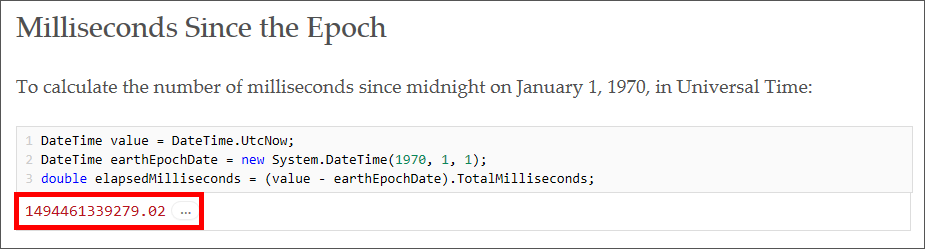
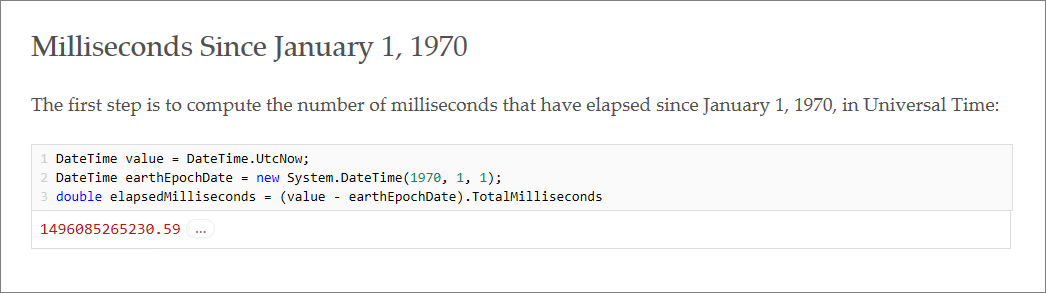
More edits to Lab 5

Changed region(s): [[0.0, 0.0, 1.0, 1.0], [0.0, 0.3092, 0.9686, 0.3936], [0.0, 0.0562, 0.4541, 0.2249]]

diff --git a/Module 5 (Draft)/Operation Remote Resupply, Part 5.md b/Module 5 (Draft)/Operation Remote Resupply, Part 5.md
@@ -56,7 +56,7 @@ Estimated time to complete this lab: **45** minutes.
 <a name="Exercise1"></a>
 ## Exercise 1: Create a Xamarin Workbook for Android ##
 
-Xamarin Workbooks are essentially "markdown" files with a ".workbook" extension, making them both portable and easy to manage. A workbook can be created for Android, iOS, Windows console, and desktop (WPF) apps, with full support for package management, including platform-specific NuGet packages. Rich code block support, using the standard markup "triple-backtick" pattern, is also used, making it easy to convert a standard markdown file to a Xamarin Workbook for a more interactive learning experience.
+Xamarin Workbooks are essentially markdown files with a ".workbook" extension, making them both portable and easy to manage. Workbooks can be created for Android, iOS, Windows console, and desktop (WPF) apps, with full support for NuGet packages. Rich code-block support, using the standard markup "triple-backtick" pattern, is also used, making it easy to convert a standard markdown file into a Xamarin Workbook for a more interactive learning experience.
 
 In this exercise, you will create a Xamarin Workbook targeting Android devices and learn the basics of working with cells. 
 
@@ -98,7 +98,7 @@ In this exercise, you will create a Xamarin Workbook targeting Android devices a
 
     _Results of executing a cell_
 
-1. The three buttons in the lower-right corner of each cell allow you to add an executable cell, add a documentation cell, and delete the current cell, in that order. Click the third button in the cell that was added when you executed the code in the previous cell to delete it.
+1. The three buttons in the lower-right corner of each cell allow you to add an executable cell, add a documentation cell, and delete the current cell, in that order. Click the third button in the cell that was added when you executed the code in the previous cell to delete it, and confirm the deletion when prompted to do so.
 
 	![Deleting the newly added cell](Images/ex1-delete-executable-cell.png)
 
@@ -122,42 +122,177 @@ In this exercise, you will create a Xamarin Workbook targeting Android devices a
 
     _Adding a documentation cell_
 
-Now that you're familiar with basic workbook concepts, including adding, deleting, and executing cells, let's build something more impactful.
+Now that you're familiar with basic workbook concepts, including adding, deleting, and executing cells, let's build something that's relevant to Operation Remote Resupply.
 
 <a name="Exercise2"></a>
 ## Exercise 2: Build an interactive workbook ##
 
-Xamarin Workbooks are typically comprised of both document cells and executable cells, with markdown-style formatting applied for readability and structure. In this exercise you will be using the skills and familiarity gained in the previous exercise to create an interactive document providing the steps, descriptions, and calculations required to convert Earth time to Mars time.
+In this exercise, you will create a Xamarin Workbook that describes how to convert Earth time to Mars time, and that includes code to perform the conversion.
 
-1. Add a documentation cell to the workbook. Then delete the executable cell above it.
-
-1. Create a heading for your workbook by entering the following text in the documentation cell:
+1. Add a documentation cell to the workbook and enter the following text:
 
 	```
 	What time is it on Mars?
 	```
 
-1. Format the text in the cell by selecting **Format** > **Heading** > **Level 1** from the overhead menu.
+1. Format the text in the cell by selecting **Format** > **Heading** > **Level 1** from the overhead menu, and confirm that it takes on the format shown below.
 
-	![Formatting a documentation cell](Images/xw-format-heading.png)
+	![The workbook heading](Images/xw-completed-format.png)
 
-    _Formatting a documentation cell_
-
-1. Confirm that the heading takes on the format shown below.
-
-	![The formatted heading](Images/xw-completed-format.png)
-
-    _The formatted heading_
+    _The workbook heading_
  
 1. Add another documentation cell to the workbook. Then paste the following text into the cell to serve as an introduction to the workbook: 
 
 	```
-	Have you ever considered what time it is on Mars? It's not an abstract question when you have settlers on Mars and need to communicate with them. tk. 
-
-	To make sure your calculations can use both C# and Xamarin Forms, you need to include a few lines of code like this:
+	Have you ever considered what time it is on Mars? It's not an abstract question when you have settlers on Mars and need to communicate with them. Earth time can be converted to Mars time in a few simple steps.  
 	```
 
-	At this point you're ready to start adding some code, and since you will be working with a Xamarin Forms for the remainder of this exercise, you need to add the Xamarin.Forms package to your workbook:
+1. Add a documentation cell to the workbook and insert the text below. Then highlight "Milliseconds Since January 1, 1970" and use the **Format** > **Heading** > **Level 2** command to format the text as a subheading.
+
+	```
+	Milliseconds Since January 1, 1970
+
+	The first step is to compute the number of milliseconds that have elapsed since January 1, 1970, in Universal Time:
+	```
+
+1. Insert a new executable cell and enter the code below.
+
+	```C#
+	DateTime value = DateTime.UtcNow;
+	DateTime earthEpochDate = new System.DateTime(1970, 1, 1);
+	double elapsedMilliseconds = (value - earthEpochDate).TotalMilliseconds;
+	```
+
+1. Click the **Run** button or press **Ctrl+Enter** to execute the code and display the number of milliseconds elapsed since January 1, 1970: 
+
+	![Computing the number of milliseconds elapsed since January 1, 1970](Images/xw-since-epoch-code.png)
+
+    _Computing the number of milliseconds elapsed since January 1, 1970_
+ 
+1. Delete the executable cell that was added when you ran the code. Then add a documentation cell, insert the following text, and format the first line as a level-2 subheading:
+
+	```
+	Julian Date (Universal Time)
+
+	The next step is to convert milliseconds into days and add the number of days between noon on January 1, 4713 B.C. and midnight on January 1, 1970 (2,440,587.5 days) to yield a Julian date: 
+	```
+
+1. Insert a new executable cell and enter the statement below. Then run it to compute a Julian date.
+
+	```C#
+	double epochJulianDate = 2440587.5 + (elapsedMilliseconds / (8.64 * Math.Pow(10, 7)));
+	```
+
+	![Computing a Julian date](Images/xw-julian-date-universal.png)
+
+    _Computing a Julian date_
+
+1. Delete the executable cell that was added when you ran the code, and add a new documentation cell. Insert the following text, and then format the first line as a level-2 subheading:
+
+	```
+	Julian Date (Terrestrial Time)
+
+	Now convert the Julian date in Universal Time to a Julian date in Terrestrial Time by adding the number of leap seconds since January 1, 2017:
+	```
+
+1. Insert a new executable cell and enter the statement below. The run it to convert the Julian date to Terrestrial Time:
+
+	```C#
+	double terrestrialJulianDate = epochJulianDate + (37 + 32.184) / 86400;
+	```
+
+	![Converting a Julian date to Terrestrial Time](Images/xw-julian-date-terrestrial.png)
+
+    _Converting a Julian date to Terrestrial Time_
+
+1. Delete the executable cell that was added when you ran the code, and add a new documentation cell. Insert the following text, and then format the first line as a level-2 subheading:
+
+	```
+	Julian Date Relative to January 1, 2000
+
+	Subtract the number of days between January 1, 1970 and January 1, 2000 to convert the terrestrial Julian date computed in the previous step into one that is relative to January 1, 2000:
+	```
+
+1. Insert a new executable cell and enter the statement below. Then run it to convert the Julian date into one that is relative to January 1, 2000:
+
+	```C#
+	double martianEpochDifference = terrestrialJulianDate - 2451545.0;
+	```
+
+	![Rebasing the Julian date](Images/xw-julian-date-j2000.png)
+
+    _Rebasing the Julian date_
+
+1. Delete the executable cell that was added when you ran the code, and add a new documentation cell. Insert the following text, and then format the first line as a level-2 subheading:
+
+	```
+	Mars Sol Date
+
+	The equivalent of the Julian date for Mars is the Mars sol date. At midnight on January 6, 2000 on earth, it was midnight at the Martian prime meridian, so our starting point for Mars sol date is ΔJ2000 - 4.5. The length of a Martian day and Earth day differ by a ratio of 1.027491252, so we divide by that. By convention, to keep the Martial sol date positive going back to midday on December 29, 1873, we add 44,796. A slight adjustment of 0.00096 is required since the midnights aren't perfectly aligned:
+	```
+
+1. Insert a new executable cell and enter the statement below. Then run it to display the Martian sol date:
+
+	```C#
+	double martianSolDate = (((martianEpochDifference - 4.5) / 1.027491252) + 44796.0 - 0.00096);
+	```
+
+	![Computing the Martial sol date](Images/xw-sol-date.png)
+
+    _Computing the Martial sol date_
+
+1. Delete the executable cell that was added when you ran the code, and add a new documentation cell. Insert the following text, and then format the first line as a level-2 subheading:
+
+	```
+	Mars Coordinated Time
+
+	Mars Coordinated Time (MTC) is like UTC, but for Mars. Because it is just a mean time, you can  calculate it based on the Mars Sol Date like this:
+	```
+
+1. Insert a new executable cell and enter the following statement. Then run it to display the current time in Mars Coordinated Time (MTC):
+
+	```C#
+	var mct = System.TimeSpan.FromHours((martianSolDate % 1) * 24);
+	mct.ToString("hh\\:mm\\:ss");
+	```
+
+	![Computing Mars Coordinated Time](Images/xw-mtc.png)
+
+    _Computing Mars Coordinated Time_
+ 
+1. One of the cool things about Xamarin Workbooks is that you can do almost anything you would normally do in C#, including adding methods and extension methods. To demonstrate, add the following statements to the executable cell that was added when you ran the last one:
+
+	```C#
+	static double ToMartianSolDate(this DateTime value)
+	{
+	    DateTime earthEpochDate = new System.DateTime(1970, 1, 1);
+	    double elapsedMilliseconds = (value - earthEpochDate).TotalMilliseconds;
+	    double epochJulianDate = 2440587.5 + (elapsedMilliseconds / (8.64 * Math.Pow(10, 7)));
+	    double terrestrialJulianDate = epochJulianDate + (37 + 32.184) / 86400;
+	    double martianEpochDifference = terrestrialJulianDate - 2451545.0;
+	    double martianSolDate = (((martianEpochDifference - 4.5) / 1.027491252) + 44796.0 - 0.00096);
+	
+	    return martianSolDate;
+	}
+	
+	static TimeSpan ToMartianTime(this DateTime value)
+	{   
+	    return System.TimeSpan.FromHours((value.ToMartianSolDate() % 1) * 24);
+	}
+	```
+
+	These extension methods will come in handy when you add code to interact with the Android emulator in the next exercise.
+
+Xamarin Workbooks like this one are great for creating interactive documents to teach concepts and let users try out code that implements those concepts. As yet, however, you haven't used the Workbooks app that appeared in the Android emulator when you launched Xamarin Workbooks. Let's modify the app to allow users to convert earth time to Martian time. 
+
+<a name="Exercise3"></a>
+## Exercise 3: Inspect code using the Xamarin UI Inspector ##
+
+Xamarin Workbooks are not only interactive in the editor, but can also communicate with external processes, like a console window, WPF app, and iOS and Android emulator. Since an emulator gets started when a Xamarin Workbook is created, you only need to write a few lines of code to interact with it. Interaction with the emulator can come in various forms, such as creating UI controls to display on a page, as well as inspecting and adjusting control properties in the Xamarin UI Inspector.
+
+In this exercise you will be adding documentation and code to your workbook to display an Earth to Mars time converter in the emulator, as well as inspecting and adjusting properties using the Xamarin UI Inspector built into Xamarin Workbooks.
+
+---
 
 1. Add an executable cell to the workbook. Then select **File** > **Add Package...** from the overhead menu and type "Xamarin.Forms" into the search box. Select the latest **Xamarin.Forms** package, and then click **Add Package** to add the package to the workbook.
 
@@ -179,175 +314,10 @@ Xamarin Workbooks are typically comprised of both document cells and executable 
 	using Xamarin.Forms;
 	```
 
-1. Add a documentation cell to the workbook and insert the following text:
-
-	```
-	With that in place, you can start writing some code to calculate Martian Time, starting with the number of milliseconds since the epoch.
-
-	Milliseconds Since the Epoch
-
-	To calculate the number of milliseconds since midnight on January 1, 1970, in Universal Time:
-	```
-
-1. Highlight "Milliseconds Since the Epoch" in the documentation cell. Then use the **Format** > **Heading** > **Level 2** command to format the text as a subheading.
-
-1. Insert a new executable cell and enter the following code. Then click the **Run** button or press **Ctrl+Enter** to execute it.
-
-	```C#
-	DateTime value = DateTime.UtcNow;
-	DateTime earthEpochDate = new System.DateTime(1970, 1, 1);
-	double elapsedMilliseconds = (value - earthEpochDate).TotalMilliseconds;
-	```
-
-1. Confirm that the result shows the number of milliseconds elapsed since January 1, 1970: 
-
-	![Milliseconds elapsed since the epoch](Images/xw-since-epoch-code.png)
-
-    _Milliseconds elapsed since the epoch_
- 
-1. Delete the executable cell that was added when you ran the code. Then add a documentation cell and insert the follow text:
-
-	```
-	Julian Date (UT)
-
-	Next you need to get the number of days (rather than milliseconds) since a much older epoch than Unix time.
-
-	To make this simple, and convert from the Gregorian date to the Julian date, by dividing milliseconds by 86,400,000 to get the number of days since the Unix epoch then you add that number to 2,440,587.5, which would be the exact Julian Date as of the Epoch.
-	```
-
-1. Highlight "Julian Date (UT)" and format it as a level-2 subheading.
-
-1. Insert a new executable cell and enter the following statement. Then run it to display the number of days that have elapsed since noon on January 1, 4713 B.C.
-
-	```C#
-	double epochJulianDate = 2440587.5 + (elapsedMilliseconds / (8.64 * Math.Pow(10, 7)));
-	```
-
-1. Delete the executable cell that was added when you ran the code. Then add a new documentation cell. Insert the following text, and then format "Julian Date" as a level-2 subheading:
-
-	```
-	Julian Date
-
-	Now that you have the Julian Date, you actually need the Terrestrial Time (TT) Julian Date rather than the UTC-based one, meaning you basically just add the leap seconds which, since January 1, 2017, are 37 + 32.184.
-	```
-
-1. Insert a new executable cell and enter the following statement. Then run it to display the terrestrial Julian date:
-
-	```C#
-	double terrestrialJulianDate = epochJulianDate + (37 + 32.184) / 86400;
-	```
-
-1. Delete the executable cell that was added when you ran the code. Then add a new documentation cell. Insert the following text, and then format "Days Since J2000 Epoch" as a level-2 subheading:
-
-	```
-	Days Since J2000 Epoch
-
-	This is the number we're going to use as the input to many of our Mars calculations. It's the number of (fractional) days since midnight on January 1, 1970 in Terrestrial Time. We know what JDₜₜ was at the J2000 epoch (2,451,545.0) so it's a piece of cake to convert.
-	```
-
-1. Insert a new executable cell and enter the following statement. Then run it to display the number of days since the J2000 epoch:
-
-	```C#
-	double martianEpochDifference = terrestrialJulianDate - 2451545.0;
-	```
-
-	![Number of days in the J2000 epoch](Images/xw-days-since.png)
-
-    _Number of days in the J2000 epoch_
- 
-1. Delete the executable cell that was added when you ran the code. Then add a new documentation cell. Insert the following text, and then format "Mars Sol Date" as a level-2 subheading:
-
-	```
-	Mars Sol Date
-
-	The equivalent of the Julian Date for Mars is the Mars Sol Date. At midnight on the 6th January 2000 (Δt J2000 = 4.5) it was midnight at the Martian prime meridian, so our starting point for Mars Sol Date is ΔJ2000 - 4.5.
-
-	The length of a Martian day and Earth (Julian) day differ by a ratio of 1.027491252 so we divide by that. By  convention, to keep the MSD positive going back to midday December 29th 1873, we add 44,796.
-
-	There is a slight adjustment as the midnights weren't perfectly aligned, so the NASA Mars24 site gives us an adjustment of - 0.00096.
-	```
-
-1. Insert a new executable cell and enter the following statement. Then run it to display the Martian solar date:
-
-	```C#
-	double martianSolDate = (((martianEpochDifference - 4.5) / 1.027491252) + 44796.0 - 0.00096);
-	```
-
-1. Delete the executable cell that was added when you ran the code. Then add a new documentation cell. Insert the following text, and then format "Coordinated Mars Time" as a level-2 subheading:
-
-	```
-	Coordinated Mars Time
-
-	Coordinated Mars Time (or MTC) is like UTC but for Mars. Because it is just a mean time, you can  calculated it based on the Mars Sol Date like this:
-
-	There you have it! Some quick calculations to convert Earth Time to Martian Time! Now you can easily add Xamarin Form controls to a page to display these calculations:
-	```
-
-1. Insert a new executable cell and enter the following statement. Then run it to display the current time in Mars Coordinated Time (MTC):
-
-	```C#
-	var mct = System.TimeSpan.FromHours((martianSolDate % 1) * 24);
-	```
-
-	![Executing code to view "Mars Coordinated Time"](Images/xw-execute-mct.png)
-
-    _Executing code to view "Mars Coordinated Time"_
- 
-	That's a lot of "rocket science, but you're finally getting close. In fact Mars Coordinated Time is actually human-readable now, and looks pretty much like time on Earth. To get you the rest of the way you can add a step to make it perfect for Earth people:
-
-1. Delete the executable cell that was added when you ran the code. Then add a new documentation cell and insert the following text:
-
-	```
-	You can even clean it up a bit to make it more readable for people used to seeing Earth Time:
-	```
-
-1. Insert a new executable cell and enter the following statement. Then run it to display the Mars Coordinated Time in an "Earth-friendly" format:
-
-	```C#
-	mct.ToString("hh\\:mm\\:ss");
-	```
-
-1. Delete the executable cell that was added when you ran the code. Then add a new documentation cell and insert the following text:
-
-	```
-	Better yet, write a couple of quick DateTime extension methods to make it easier to convert:
-	```
-
-1. Insert a new executable cell and enter the following statements:
-
-	```C#
-	static double ToMartianSolDate(this DateTime value)
-	{
-	    DateTime earthEpochDate = new System.DateTime(1970, 1, 1);
-	    double elapsedMilliseconds = (value - earthEpochDate).TotalMilliseconds;
-	    double epochJulianDate = 2440587.5 + (elapsedMilliseconds / (8.64 * Math.Pow(10, 7)));
-	    double terrestrialJulianDate = epochJulianDate + (37 + 32.184) / 86400;
-	    double martianEpochDifference = terrestrialJulianDate - 2451545.0;
-	    double martianSolDate = (((martianEpochDifference - 4.5) / 1.027491252) + 44796.0 - 0.00096);
-	
-	    return martianSolDate;
-	}
-	
-	static TimeSpan ToMartianTime(this DateTime value)
-	{   
-	    return System.TimeSpan.FromHours((value.ToMartianSolDate() % 1) * 24);
-	}
-	```
-
-	You can do almost anything in a Xamarin Workbook that you do in a real app, including defining static extension methods. These extension methods will come in handy when you add code to interact with the Android emulator in the next exercise.
-
-That might seem like a lot of code, but it's mostly just documentation. Remember, Xamarin Workbooks are designed to be interactive, instructional documents, and since the concept of converting Earth to Mars time is typically beyond the average developer, your new Xamarin Workbooks document is an ideal way to teach both concepts and coding without requiring a learner to flip back and forth between a document and an IDE.
-
-You also probably noticed you haven't written any code to interact with the Android emulator yet. With all the documentation and code in place in your workbook, you're ready to start using these calculations to display your Earth to Mars time converter in a Xamarin Forms app in the next exercise.
-
-<a name="Exercise3"></a>
-## Exercise 3: Inspect code using the Xamarin UI Inspector ##
-
-Xamarin Workbooks are not only interactive in the editor, but can also communicate with external processes, like a console window, WPF app, and iOS and Android emulator. Since an emulator gets started when a Xamarin Workbook is created, you only need to write a few lines of code to interact with it. Interaction with the emulator can come in various forms, such as creating UI controls to display on a page, as well as inspecting and adjusting control properties in the Xamarin UI Inspector.
-
-In this exercise you will be adding documentation and code to your workbook to display an Earth to Mars time converter in the emulator, as well as inspecting and adjusting properties using the Xamarin UI Inspector built into Xamarin Workbooks.
+---
 
 1. Open Xamarin Workbooks to the document created earlier, if not already open from the previous exercises.
+
 1. Scroll to the bottom of the document, add a new **documentation cell** and insert the following content: 
 
 	```Text
